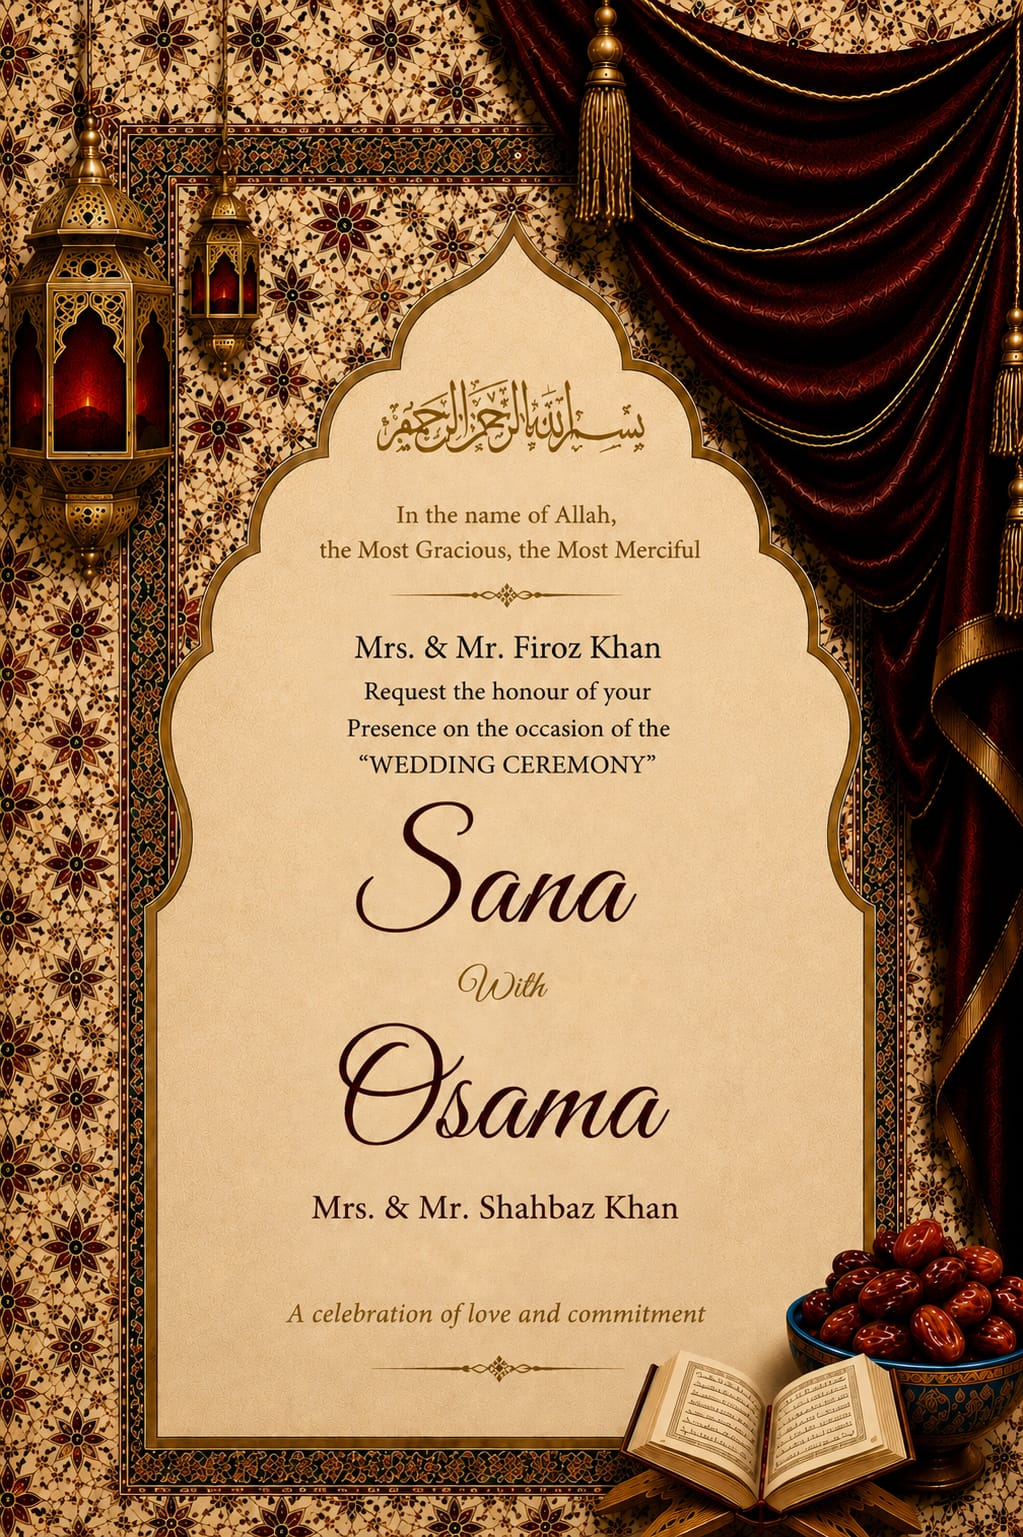
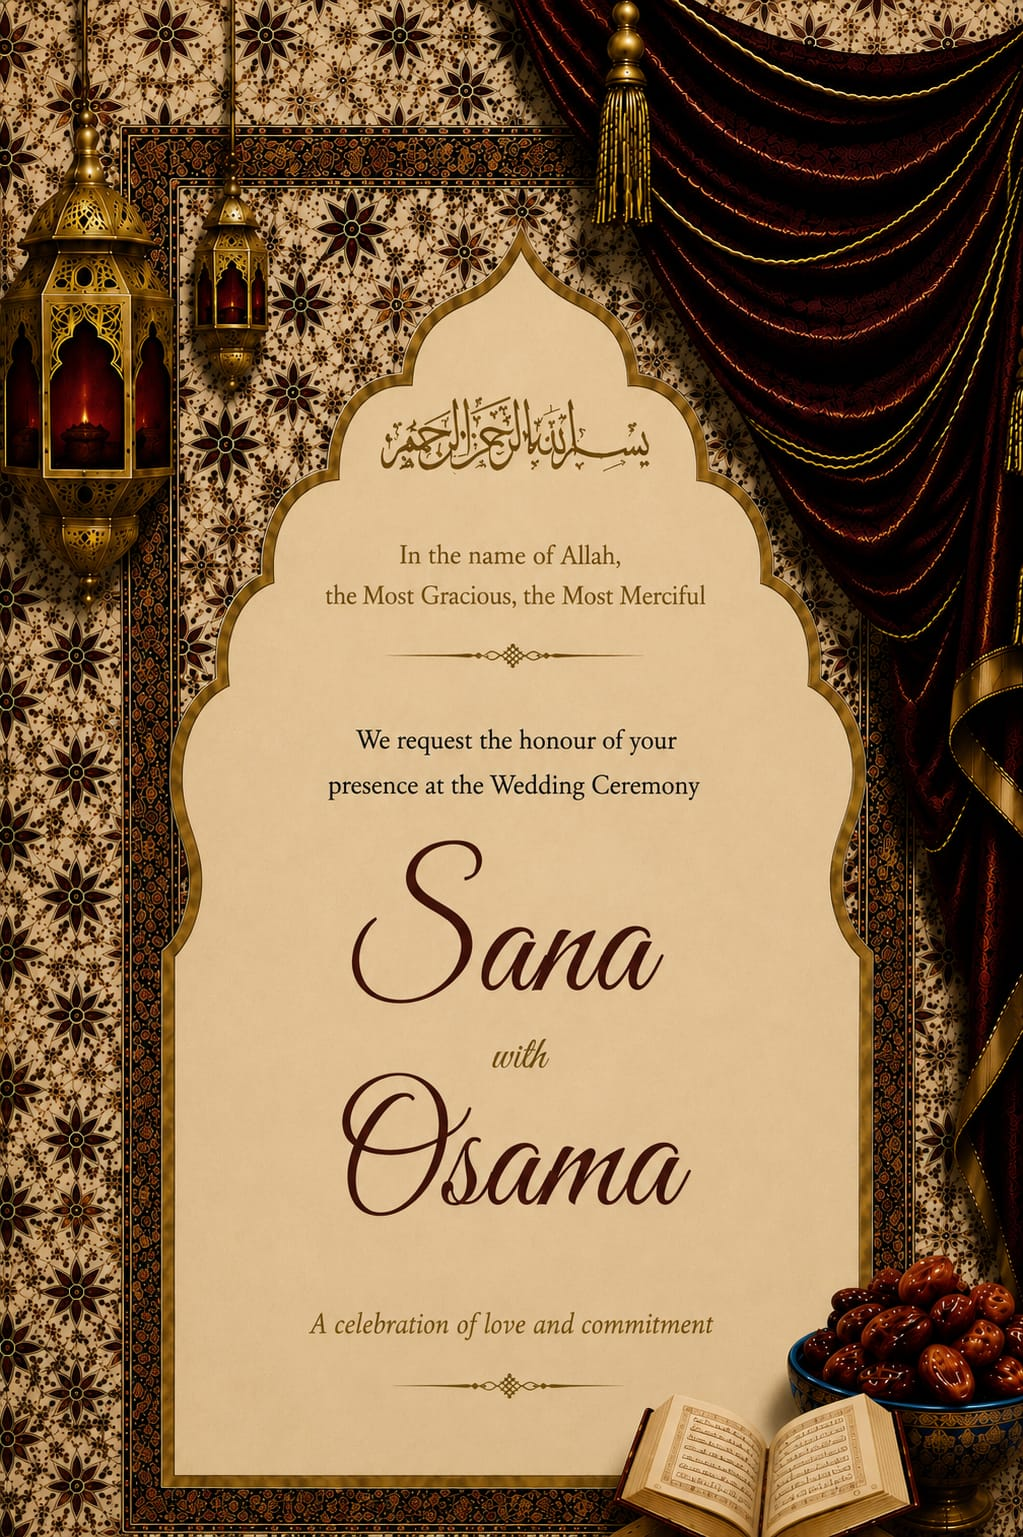
updated website

diff --git a/invitation.html b/invitation.html
@@ -39,21 +39,70 @@
   }
   .hot:active{ background:rgba(227,201,138,.12); }
 
+  /* ── map tap zones ── */
   #linkPatna{
-    left:44.97%;
-    width:45.94%;
-    top:5.86%;
-    height:42.29%;
+    left:51.60%;
+    width:33.60%;
+    top:19.40%;
+    height:26.00%;
     border-radius:18px;
   }
   #linkDelhi{
-    left:9.78%;
-    width:46.43%;
-    top:51.40%;
-    height:44.89%;
+    left:16.50%;
+    width:33.57%;
+    top:66.50%;
+    height:23.50%;
     border-radius:18px;
   }
 
+  /* ── maroon pulse hugging the inner map border ── */
+  @keyframes mapPulse {
+    0%, 100% {
+      box-shadow: 0 0 0px 0px rgba(120,0,20,0),
+                  inset 0 0 0px 0px rgba(120,0,20,0);
+      background: rgba(120,0,20,0.0);
+    }
+    50% {
+      box-shadow: 0 0 0px 0px rgba(120,0,20,0),
+                  inset 0 0 18px 8px rgba(140,0,30,0.55);
+      background: rgba(120,0,20,0.08);
+    }
+  }
+
+  #linkPatna {
+    animation: mapPulse 2.4s ease-in-out infinite;
+    border: 2.5px solid rgba(140,0,30,0);
+  }
+  #linkDelhi {
+    animation: mapPulse 2.4s ease-in-out infinite;
+    animation-delay: 1.2s;
+    border: 2.5px solid rgba(140,0,30,0);
+  }
+
+  @keyframes borderPulse {
+    0%, 100% { border-color: rgba(140,0,30,0.0); }
+    50%       { border-color: rgba(160,10,40,0.85); }
+  }
+
+  #linkPatna {
+    animation: mapPulse 2.4s ease-in-out infinite,
+               borderPulse 2.4s ease-in-out infinite;
+    border: 3px solid rgba(140,0,30,0);
+    border-radius: 18px;
+  }
+  #linkDelhi {
+    animation: mapPulse 2.4s ease-in-out infinite,
+               borderPulse 2.4s ease-in-out infinite;
+    animation-delay: 1.2s;
+    border: 3px solid rgba(140,0,30,0);
+    border-radius: 18px;
+  }
+
+  @media (prefers-reduced-motion: reduce){
+    #linkPatna, #linkDelhi { animation: none; }
+  }
+
+  /* ── back home button ── */
   #backHome{
     position:fixed;
     top:16px;
@@ -75,6 +124,7 @@
   }
   #backHome:focus-visible{ outline:2px solid #e3c98a; outline-offset:3px; }
 
+  /* ── back to top button ── */
   #backTop{
     position:fixed;
     right:16px;
@@ -99,12 +149,12 @@
   #backTop.show{ opacity:1; pointer-events:auto; }
   #backTop:focus-visible{ outline:2px solid #e3c98a; outline-offset:3px; }
 
-  /* ── each number pinned to the center of its own box ── */
+  /* ── each countdown number pinned to its own box ── */
   .cd-num {
     position: absolute;
     font-family: 'Cinzel', serif;
     font-weight: 600;
-    font-size: clamp(18px, 12vw, 60px);
+    font-size: clamp(18px, 7vw, 60px);
     color: #3b1505;
     line-height: 1;
     transition: opacity .15s ease;
@@ -113,7 +163,6 @@
   }
   .cd-num.flip { opacity: 0.2; }
 
-  /* adjust top/left to hit exact center of each golden box */
   #cd-days  { top: 84%; left: 24%; }
   #cd-hours { top: 84%; left: 41%; }
   #cd-mins  { top: 84%; left: 56%; }
@@ -134,14 +183,14 @@
     <img src="assets/celebrations.jpg" alt="Nikah and Walima ceremony details, dates, times and venue">
   </div>
 
-  <!-- Slide 3: City Maps -->
+  <!-- Slide 3: City Maps — blinking glow on both cards -->
   <div class="shot" id="cityMaps">
     <img src="assets/citymaps.jpg" alt="Illustrated maps of Patna and Delhi">
     <a class="hot" id="linkPatna" href="#" target="_blank" rel="noopener" aria-label="Open Patna location in Google Maps"></a>
     <a class="hot" id="linkDelhi" href="#" target="_blank" rel="noopener" aria-label="Open Delhi location in Google Maps"></a>
   </div>
 
-  <!-- Slide 4: Countdown — numbers go inside the 4 golden boxes -->
+  <!-- Slide 4: Countdown — numbers inside 4 golden boxes -->
   <div class="shot" id="closing">
     <img src="assets/countdown.jpg" alt="Waiting for your gracious presence — Until we say Qubool Hai">
     <span class="cd-num" id="cd-days">--</span>
@@ -161,7 +210,7 @@
   (function(){
 
     /* ── maps ── */
-    var address = "The Crown Banquet Hall & Hotel, Khagaul – Phulwari Sharif Road, near BMP 16, Lakh, Khagaul, Patna, Bihar 801105";
+    var address = "Haroon Nagar Community Hall Sector 2, Haroon Colony Sector -Il, Phulwari Sharif, Patna, Bihar 800002";
     var mapsUrl = "https://www.google.com/maps/search/?api=1&query=" + encodeURIComponent(address);
 
     var linkMaps = document.getElementById('linkMaps');
@@ -174,7 +223,7 @@
     if(linkDelhi) linkDelhi.href = "https://maps.app.goo.gl/q4iDBPgT9Ah7VEGJ7?g_st=ac";
 
     var linkPatna = document.getElementById('linkPatna');
-    if(linkPatna) linkPatna.href = "https://maps.app.goo.gl/FPoGwAEcooj1p7ft5?g_st=ac";
+    if(linkPatna) linkPatna.href = "https://maps.app.goo.gl/ALRqB4v89ENVpJAg7?g_st=ac";
 
     /* ── back to top ── */
     var backTop = document.getElementById('backTop');
